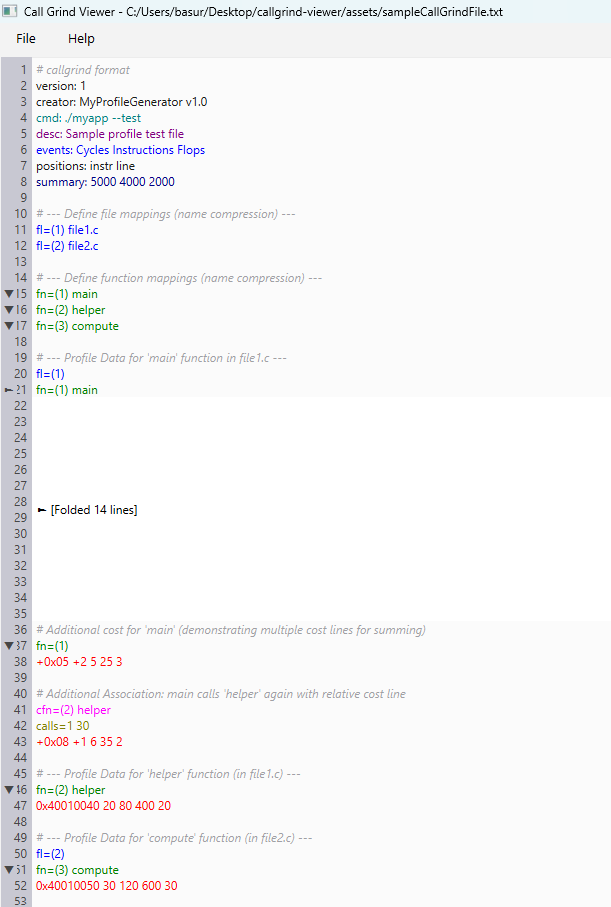
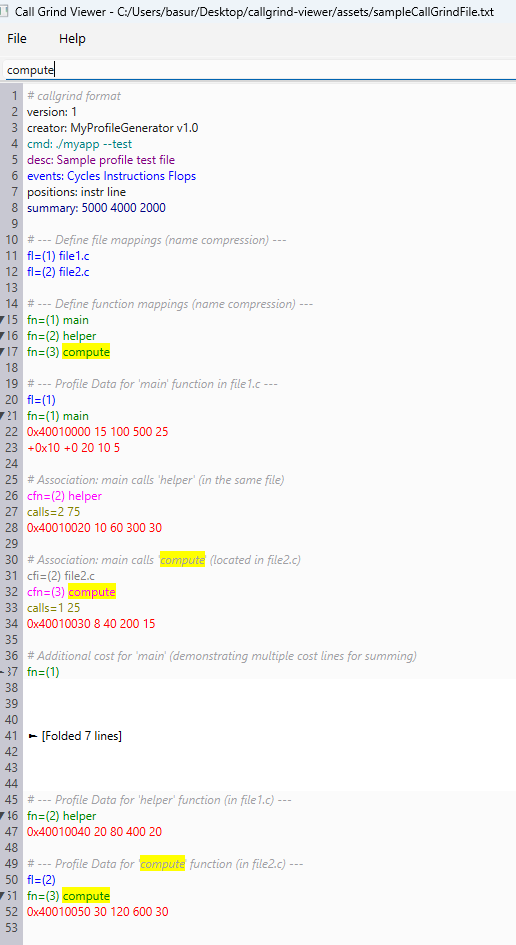
feat(search): add integrated search with pattern highlighting
- Implemented TextEdit::findText() to search the document for a given pattern.
- Integrated the search textbox in MainWindow to trigger the search on text changes.

Changed region(s): [[0.0, 0.0, 1.0, 1.0]]

diff --git a/mainwindow.cpp b/mainwindow.cpp
@@ -1,39 +1,54 @@
 // Copyright (C) 2017 The Qt Company Ltd.
 // SPDX-License-Identifier: LicenseRef-Qt-Commercial OR BSD-3-Clause
 
+#include "mainwindow.h"
 #include "assistant.h"
 #include "findfiledialog.h"
-#include "mainwindow.h"
 #include "textedit.h"
-
 #include <QAction>
 #include <QApplication>
 #include <QLibraryInfo>
 #include <QMenu>
 #include <QMenuBar>
 #include <QMessageBox>
+#include <QToolBar>
+#include <QLineEdit>
 
 using namespace Qt::StringLiterals;
 
-// ![0]
 MainWindow::MainWindow()
     : textViewer(new TextEdit)
     , assistant(new Assistant)
 {
-    // ![0]
     textViewer->setContents(QLibraryInfo::path(QLibraryInfo::ExamplesPath)
                             + "/assistant/callgrindviewer/documentation/intro.html"_L1);
     setCentralWidget(textViewer);
 
     createActions();
     createMenus();
+    createSearchBar();  // added search toolbar
 
     setWindowTitle(tr("Call Grind Viewer"));
     resize(750, 400);
 
     connect(textViewer, &TextEdit::fileNameChanged, this, &MainWindow::updateWindowTitle);
-    // ![1]
 }
+
+void MainWindow::createSearchBar() {
+    QToolBar *searchToolBar = addToolBar(tr("Search"));
+    searchLineEdit = new QLineEdit(this);
+    searchLineEdit->setPlaceholderText(tr("Find..."));
+    searchToolBar->addWidget(searchLineEdit);
+    connect(searchLineEdit, &QLineEdit::textChanged, this, &MainWindow::searchTextChanged);
+}
+
+void MainWindow::searchTextChanged(const QString &text) {
+    if (textViewer)
+        textViewer->findText(text);
+}
+
+// ... (the rest of your existing MainWindow code remains unchanged)
+
 //! [1]
 
 //! [2]

diff --git a/textedit.cpp b/textedit.cpp
@@ -12,6 +12,12 @@
 #include <QTextBlock>
 #include <QTextCursor>
 #include <QDebug>
+#include <QRegularExpression>
+#include <QRegularExpressionMatchIterator>
+#include <QTextCursor>
+#include <QTextCharFormat>
+#include <QTextEdit>
+
 
 TextEdit::TextEdit(QWidget *parent)
     : QPlainTextEdit(parent)
@@ -203,4 +209,29 @@ void TextEdit::toggleFoldAtBlock(int blockNumber) {
             viewport()->update();
         }
     });
+}
+
+
+void TextEdit::findText(const QString &pattern) {
+
+    QList<QTextEdit::ExtraSelection> extraSelections;
+    if (!pattern.isEmpty()) {
+        QTextDocument *doc = this->document();
+        QRegularExpression regex(pattern, QRegularExpression::CaseInsensitiveOption);
+        QString text = doc->toPlainText();
+        QRegularExpressionMatchIterator i = regex.globalMatch(text);
+        while (i.hasNext()) {
+            QRegularExpressionMatch match = i.next();
+            int start = match.capturedStart();
+            int length = match.capturedLength();
+            QTextCursor cursor(doc);
+            cursor.setPosition(start);
+            cursor.movePosition(QTextCursor::Right, QTextCursor::KeepAnchor, length);
+            QTextEdit::ExtraSelection selection;
+            selection.cursor = cursor;
+            selection.format.setBackground(Qt::yellow); // highlight color
+            extraSelections.append(selection);
+        }
+    }
+    this->setExtraSelections(extraSelections);
 }

diff --git a/mainwindow.h b/mainwindow.h
@@ -5,6 +5,7 @@
 #define MAINWINDOW_H
 
 #include <QMainWindow>
+#include <QLineEdit>
 
 QT_BEGIN_NAMESPACE
 class QAction;
@@ -26,6 +27,7 @@ private slots:
     void about();
     void showDocumentation();
     void open();
+    void searchTextChanged(const QString &text);
 
 protected:
     void closeEvent(QCloseEvent *event) override;
@@ -33,6 +35,7 @@ protected:
 private:
     void createActions();
     void createMenus();
+    void createSearchBar();
 
     TextEdit *textViewer;
     Assistant *assistant;
@@ -46,6 +49,8 @@ private:
     QAction *exitAct;
     QAction *aboutAct;
     QAction *aboutQtAct;
+
+    QLineEdit *searchLineEdit;
 };
 
 #endif

diff --git a/textedit.h b/textedit.h
@@ -28,6 +28,7 @@ public slots:
     void updateLineNumberArea(const QRect &rect, int dy);
     void lineNumberAreaPaintEvent(QPaintEvent *event);
     void toggleFoldAtBlock(int blockNumber);
+    void findText(const QString &pattern);
 
 private:
     QUrl srcUrl;

diff --git a/README.md b/README.md
@@ -22,9 +22,13 @@ For the syntax highlighting to be applied, ensure that your callgrind profiling 
 
 - **Code Folding:**
 
- Foldable regions (determined by function headers starting with `fn=`) can be collapsed by clicking on the arrow in the line number margin. When collapsed, a placeholder overlay is displayed over the folded region with a message indicating the number of lines folded.
+  Foldable regions (determined by function headers starting with `fn=`) can be collapsed by clicking on the arrow in the line number margin. When collapsed, a placeholder overlay is displayed over the folded region with a message indicating the number of lines folded.
 
-  *Click the arrow (▼) to fold a region and reveal a right arrow (►) in its place. Click the overlay to unfold the region.*
+    *Click the arrow (▼) to fold a region and reveal a right arrow (►) in its place. Click the overlay to unfold the region.*
+
+- **Search Functionality**
+
+  A search textbox is available in the toolbar, allowing you to enter a search pattern (with support for regular expressions and case-insensitive matching). All matching occurrences within the document are highlighted with a yellow background, making it easy to quickly locate and analyze specific portions of the profiling data.
 
 
 - **Callgrind Syntax Highlighting:**  
